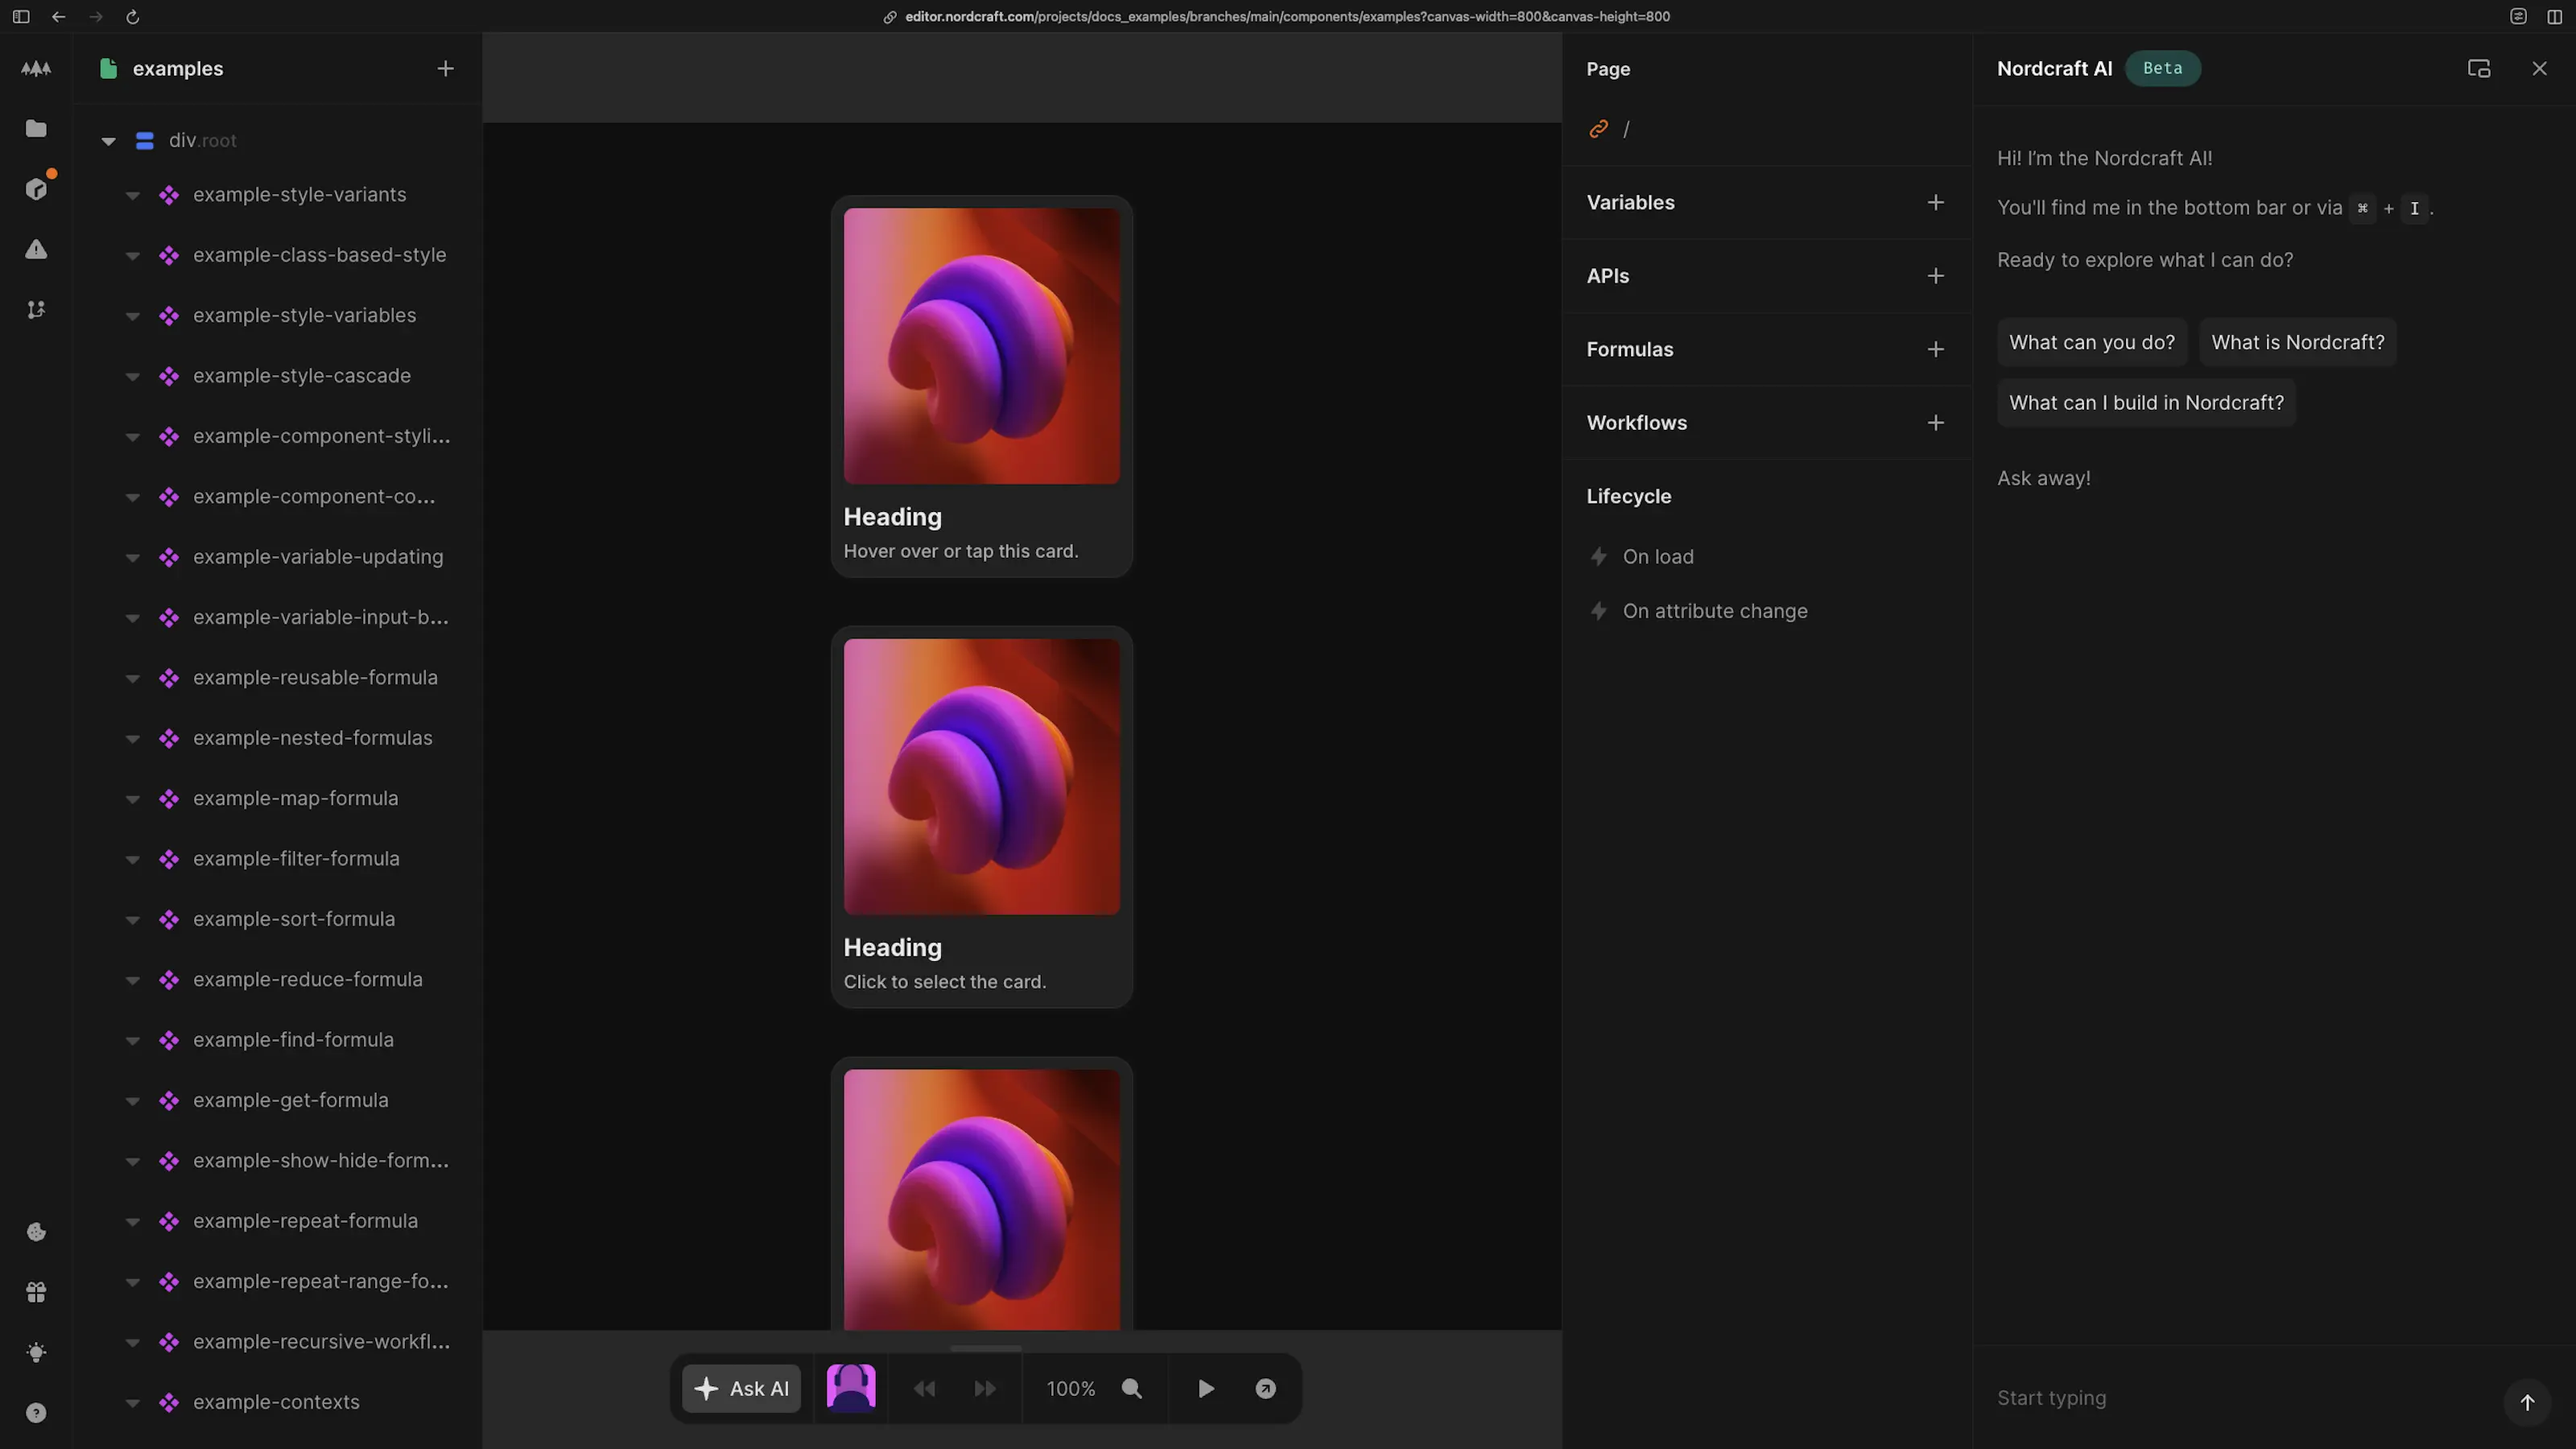
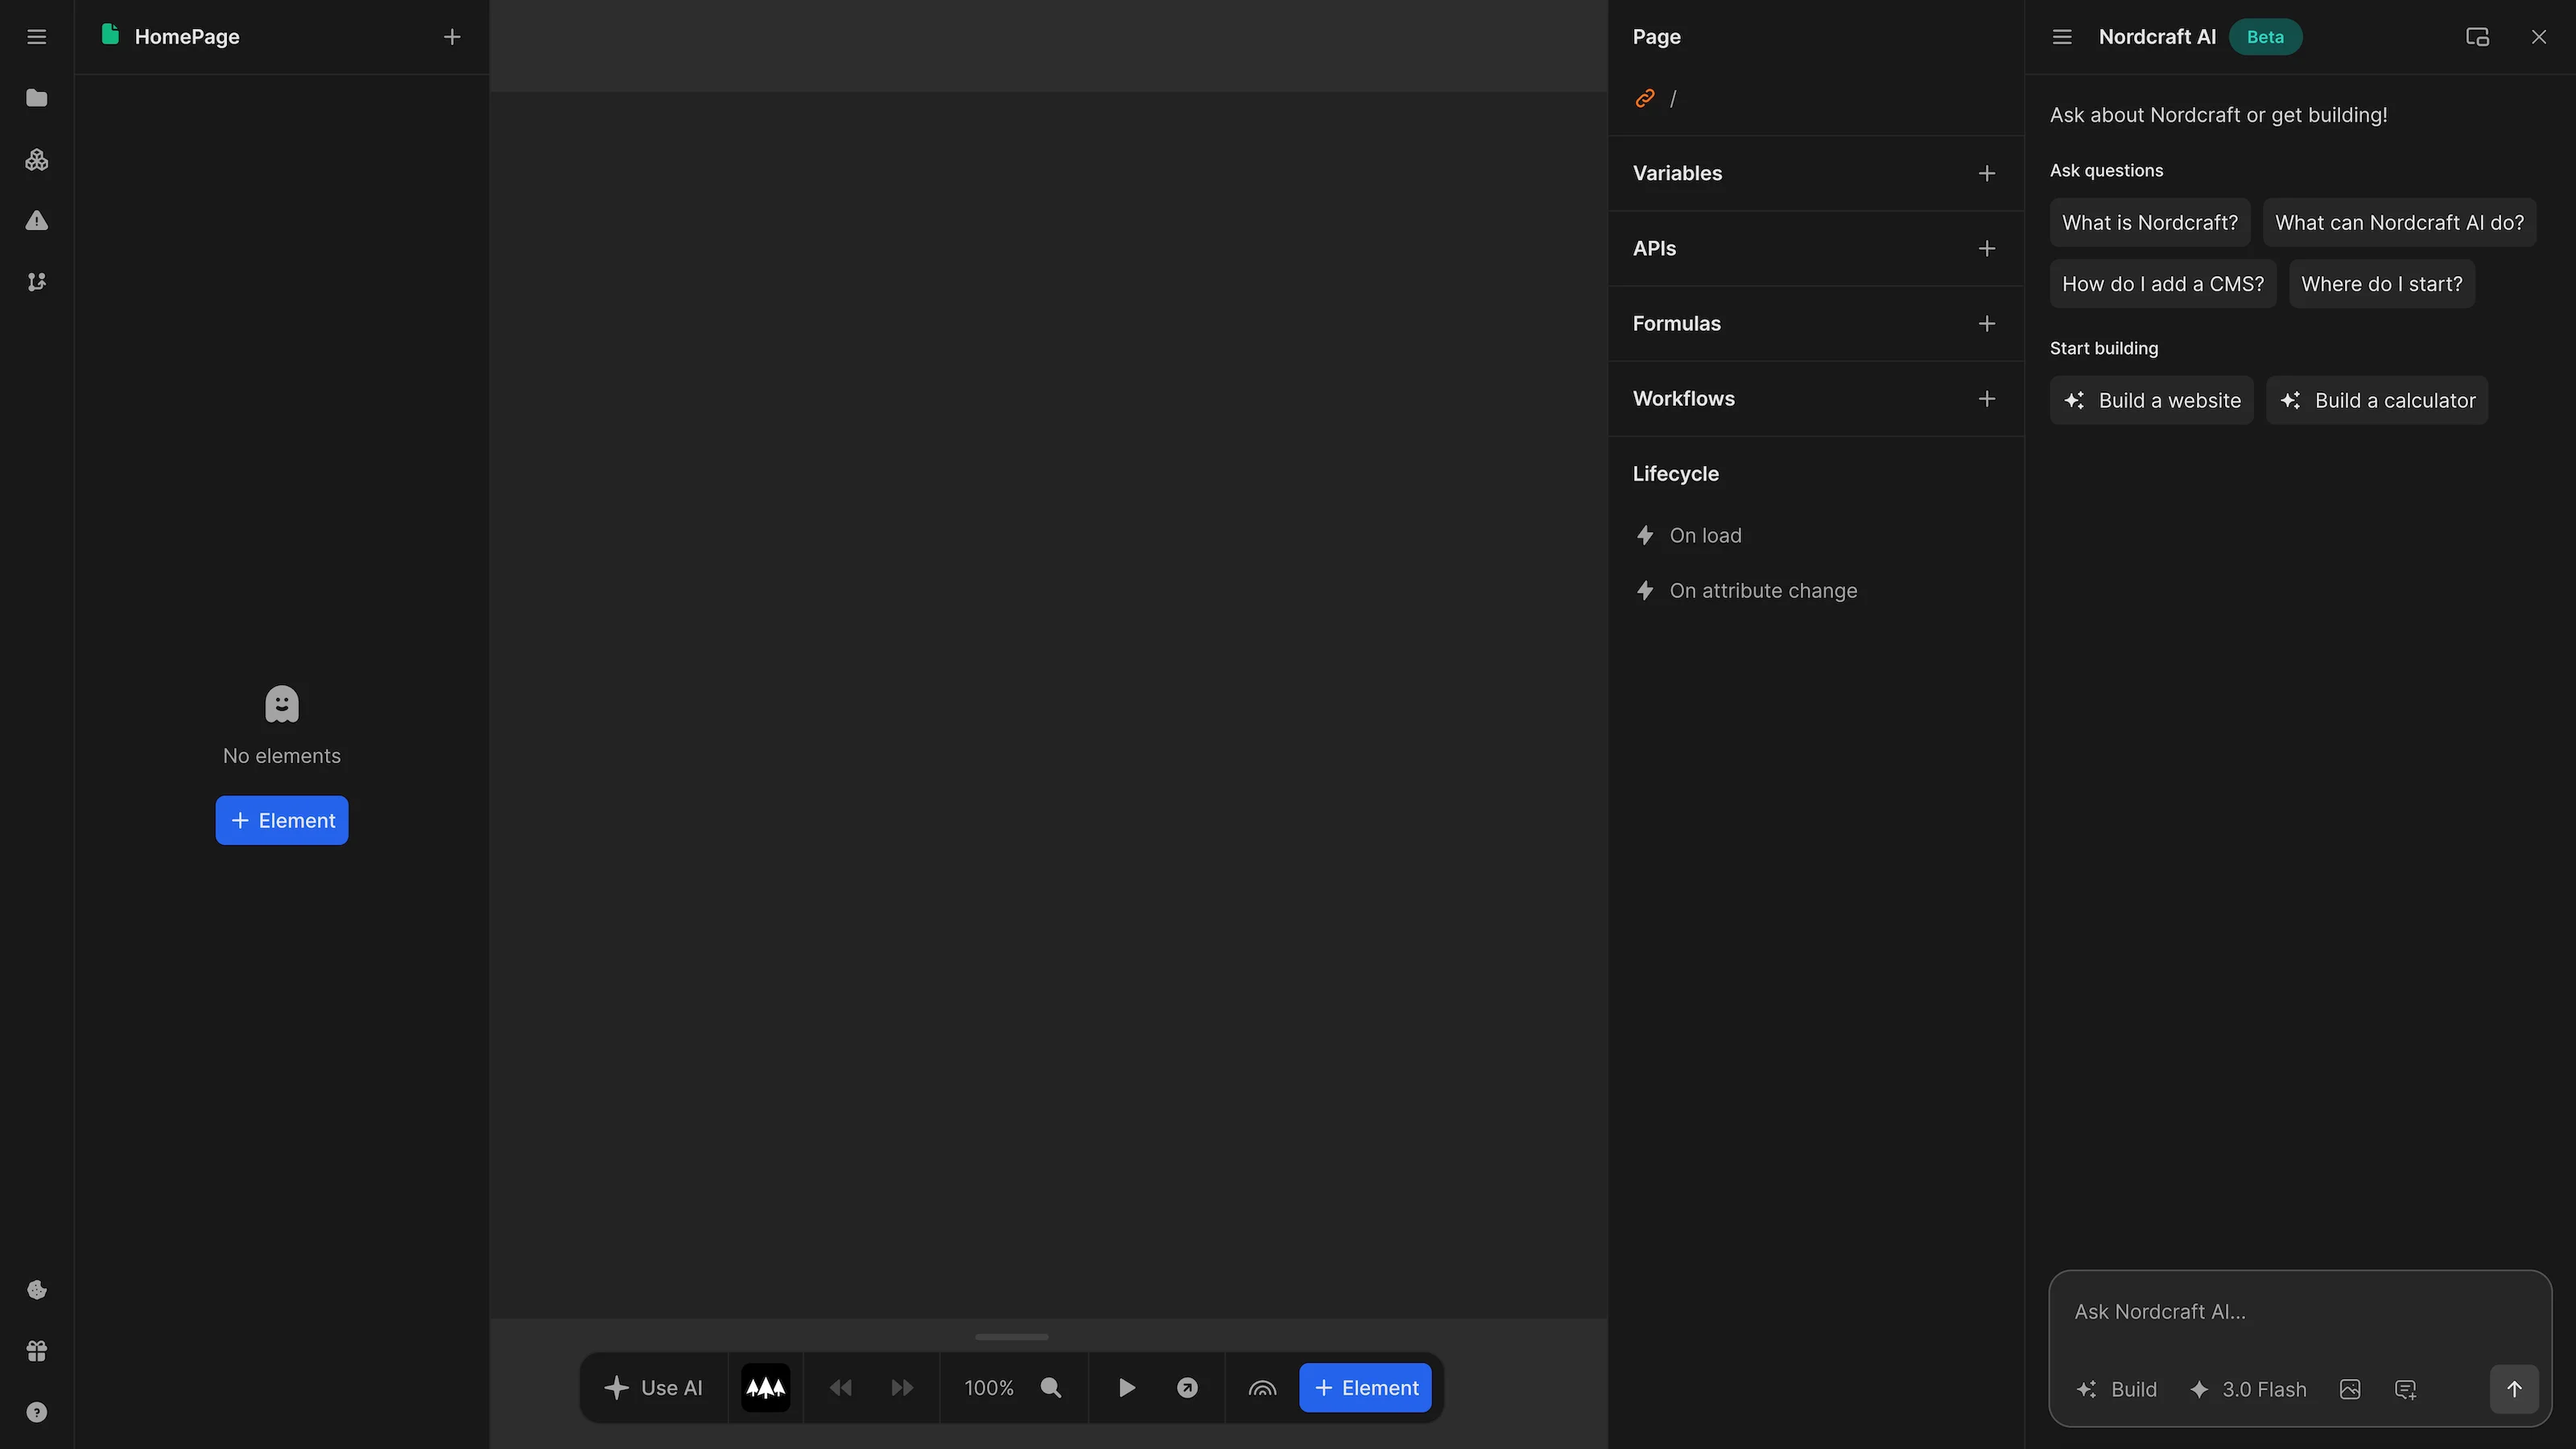
Updated AI docs. (#481)
* Updated AI docs.

* update ai docs and add screenshots

* add screenshot for build mode choice

* fix typo

* linting

---------

diff --git a/docs/ai-assistant/index.md b/docs/ai-assistant/index.md
@@ -5,33 +5,70 @@ description: In Nordcraft you get your very own AI assistant that understands th
 
 # AI Assistant
 
-In Nordcraft you get access to your very own AI assistant that understands the context of your projects and knows how to build for the web. The AI Assistant is also trained on the Nordcraft documentation, videos, blog posts, and forum discussions.
+In Nordcraft you get access to your very own AI Assistant that understands the context of your projects and knows how to build for the web. The AI Assistant is also trained on the Nordcraft documentation and videos.
 
-## Open the AI assistant
+## Open the AI Assistant
 
-You can access the AI assistant by clicking the "Ask AI" button on the bottom bar, or by using the keyboard shortcut [kbd]Cmd/Ctrl[kbd]+[kbd]I[kbd]. The AI Assistant opens to the right of the editor, allowing you to continue to work alongside it.
+You can access the AI Assistant by clicking the "Ask AI" button on the bottom bar, or by using the keyboard shortcut [kbd]Cmd/Ctrl[kbd]+[kbd]I[kbd]. The AI Assistant opens to the right of the editor, allowing you to continue to work alongside it.
 
 ![The Nordcraft editor, showing the AI Assistant window open on the right, with an input field at the bottom of it that says start typing. The Ask AI button on the bottom bar is hovered over, which shows it having a lighter grey background than the grey background of the bottom bar.|16/9](ai-assistant.webp 'AI Assistant')
 
 ## What can the AI do?
 
-The AI can perform a number of tasks to help you understand and build projects in Nordcraft, including:
+The AI can perform a number of tasks to help you understand and build projects in Nordcraft. You can choose between 2 modes:
+
+![The AI assistant mode window, showing two modes available: ask and build.|16/9](ai-mode-select.webp 'Choose your AI mode')
+
+### Ask mode
+
+When in Ask mode the AI can perform the following tasks:
 
 - **Answer Nordcraft questions**: it can explain features, concepts, and best practices when building in Nordcraft
 - **Search documentation**: it can find specific information from Nordcraft's official documentation
-- **Analyze your project structure**: it can examine your current components, pages, workflows and other elements, and give you information on their functionality and advice about next steps
+- **Analyze your project structure**: it can examine your current components, pages, workflows and other elements, and give you information on their functionality and advise about next steps
 - **Provide implementation tips**: it can explain approaches and direct you to the right tools for building features
-- **Plan complex builds**: it can break down your requests into step-by-step implementation plans for you to follow
-
-## What can't the AI do?
-
-While the AI Assisant can provide guidance and helpful resources to help you build in Nordcraft, it cannot modify your project directly. This ensures you stay in control of every aspect of your project, so you do not experience any unintended side effects.
-
-The AI Assistant cannot:
-
-- **Create pages, components, workflows, or custom actions**
-- **Write code (HTML, CSS, JavaScript)**
 
 :::info
-The Nordcraft AI is currently in Beta and imposes no limits on usage. When it is moved out of Beta, your pricing plan will dictate how frequently you can interact with the AI.
+Using Ask mode is free of charge.
+:::
+
+### Build mode
+
+When in Build mode the AI can also help you build your project. This includes building and updating pages, components, workflows, formulas, and styling.
+
+#### Using build mode
+
+When you ask the AI for changes in build mode, you will enter `Preview mode`.
+
+![The AI panel in build mode, showing the user has entered the following prompt: Build me a landing page for a design agency focussing on simplicity, creativity, and curiosity. The colour palette should be monochrome, with bold display fonts. The overall feel should be calm and professional. This image is annotated relating to the list items below.|16/9](ai-build-mode.webp 'AI Build mode')
+
+1. See a list of created or edited files above the input field in the AI panel.
+2. Navigate through the changes proposed by the AI using the top bar.
+3. Choose to accept or reject the proposed changes currently visible.
+
+Build mode uses a credit system. You get a number of free credits each day, and if you need more credits, you can purchase them directly from inside the Nordcraft editor.
+
+The amount of credits used depends on the model you chose and the complexity of the task. You can select between the following models:
+
+| Model           | Cost   | Best use case                                                                          |
+| --------------- | ------ | -------------------------------------------------------------------------------------- |
+| Gemini 3 Flash  | 💰     | Most build tasks.                                                                      |
+| Gemini 3 Pro    | 💰💰   | Task analysis. Use this mode when Flash has problems finding and fixing annoying bugs. |
+| Claude Opus 4.6 | 💰💰💰 | UI design and well-styled components                                                   |
+
+:::tip
+In Build mode you can also attach an image to your request, such as a screenshot of a design. The AI will use this image when analyzing your request but cannot insert it directly into the design.
+:::
+
+## What the AI can't do
+
+While the AI Assistant in Build mode can propose changes for your project, it cannot apply those changes directly. You must review and manually accept or reject each suggestion, ensuring you maintain full control over your project.
+
+Additionally, the AI cannot currently:
+
+- **Create or read services created in Nordcraft**
+- **Upload or read media files in Nordcraft**
+
+:::info
+The Nordcraft AI is currently in Beta. New features will be added and current features are subject to change.
 :::
